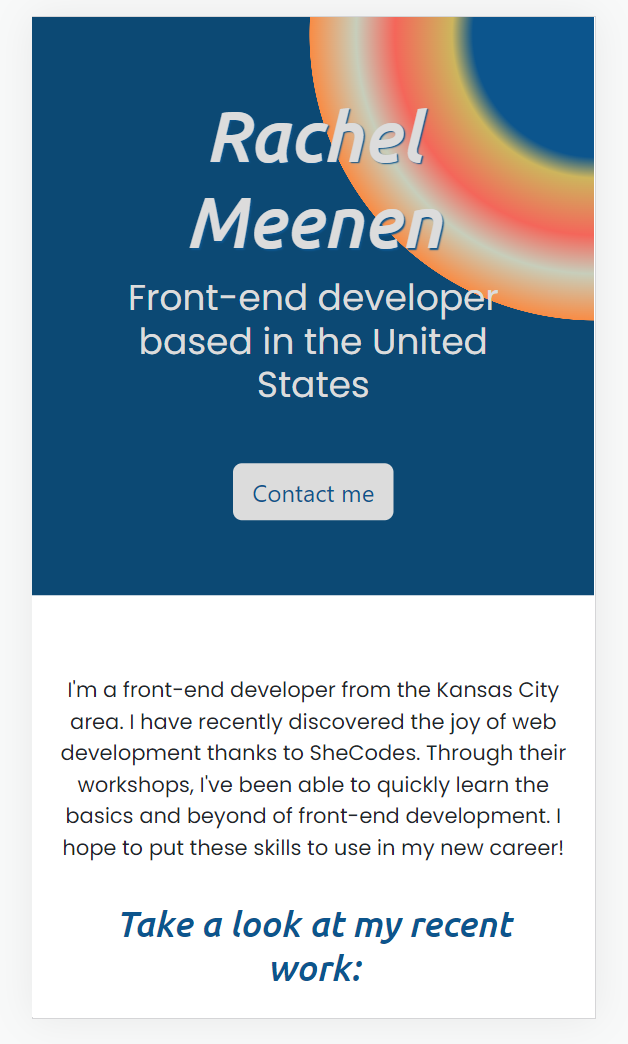
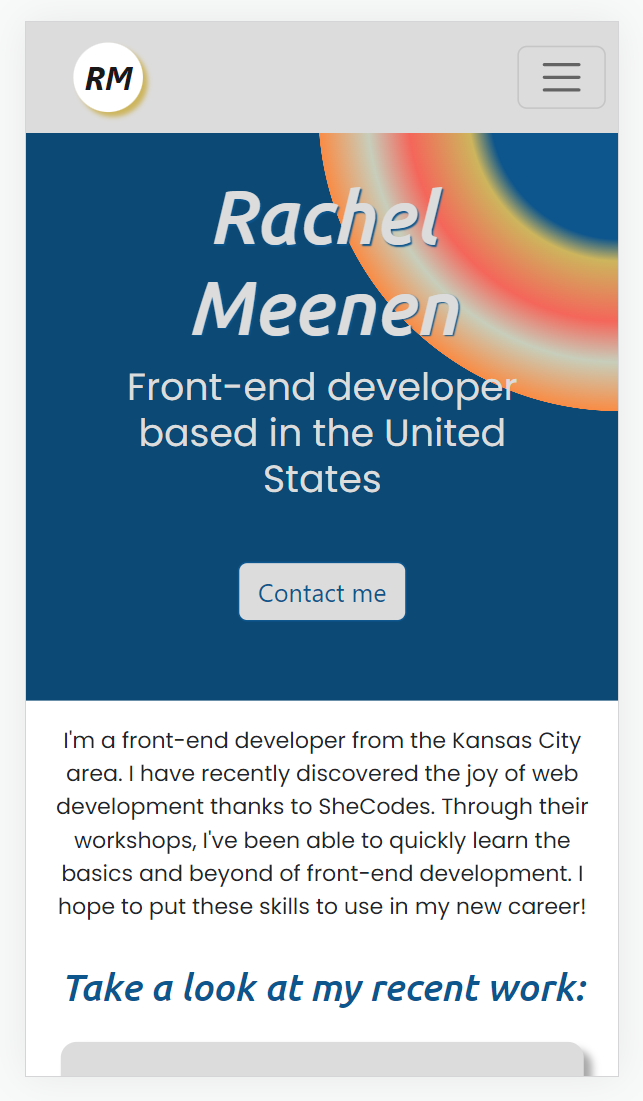
replaced portfolio screenshot and adjusted margins

diff --git a/index.html b/index.html
@@ -34,7 +34,7 @@
     <nav class="navbar navbar-expand-lg navbar-light fixed-top bg-light">
       <a class="navbar-brand nav-name" href="index.html">RM</a>
       <button
-        class="navbar-toggler"
+        class="navbar-toggler me-2"
         type="button"
         data-toggle="collapse"
         data-target="#navbarNav"
@@ -70,7 +70,7 @@
         <a href="#" class="btn btn-branding">Contact me</a>
       </div>
     </div>
-    <div class="container text-center mt-5">
+    <div class="container text-center mt-md-5">
       <div class="row">
         <div class="col-lg-6 d-flex justify-content-center">
           <img
@@ -79,7 +79,7 @@
           />
         </div>
         <div class="col">
-          <div class="introduction mt-5 text-lg-start">
+          <div class="introduction mt-md-5 text-lg-start">
             <p>
               I'm a front-end developer from the Kansas City area. I have
               recently discovered the joy of web development thanks to SheCodes.

diff --git a/src/portfolio.css b/src/portfolio.css
@@ -46,8 +46,6 @@ img {
   max-height: 400px;
 }
 
-.contact-icon a {text-decoration: none;}
-
 .bg-light{
   background-color: var(--primary-color)!important;
 }
@@ -72,7 +70,7 @@ img {
   text-align: center;
   background: radial-gradient(263px at 100.2% 3%, rgb(12, 85, 141) 31.1%, rgb(205, 181, 93) 36.4%, rgb(244, 102, 90) 50.9%, rgb(199, 206, 187) 60.7%, rgb(249, 140, 69) 72.5%, rgb(12, 73, 116) 72.6%);
   padding: 100px 0;
-  margin: 44px 0;
+  margin: 44px 0 10px 0;
 }
 
 .hero h2{
@@ -115,10 +113,6 @@ img {
   width: 360px;
 }
 
-.introduction {
-  margin: 25px 0px;
-}
-
 .recent-project-example {
   text-align: center;
   background-color: var(--primary-color);
@@ -131,6 +125,10 @@ img {
 .contact-icon i{
   color: var(--secondary-color);
   font-size: 96px;
+}
+
+.contact-icon a {
+  text-decoration: none;
 }
 
 .contact-link {
@@ -161,7 +159,6 @@ img {
   
   .heading{
     text-align: center;
-    justify-f: center;
   }
   
   .img-rachel {

diff --git a/about.html b/about.html
@@ -34,7 +34,7 @@
     <nav class="navbar navbar-expand-lg navbar-light fixed-top bg-light">
       <a class="navbar-brand nav-name" href="index.html">RM</a>
       <button
-        class="navbar-toggler"
+        class="navbar-toggler me-2"
         type="button"
         data-toggle="collapse"
         data-target="#navbarNav"

diff --git a/contact.html b/contact.html
@@ -34,7 +34,7 @@
     <nav class="navbar navbar-expand-lg navbar-light fixed-top bg-light">
       <a class="navbar-brand nav-name" href="index.html">RM</a>
       <button
-        class="navbar-toggler"
+        class="navbar-toggler me-2"
         type="button"
         data-toggle="collapse"
         data-target="#navbarNav"

diff --git a/work.html b/work.html
@@ -34,7 +34,7 @@
     <nav class="navbar navbar-expand-lg navbar-light fixed-top bg-light">
       <a class="navbar-brand nav-name" href="index.html">RM</a>
       <button
-        class="navbar-toggler"
+        class="navbar-toggler me-2"
         type="button"
         data-toggle="collapse"
         data-target="#navbarNav"
